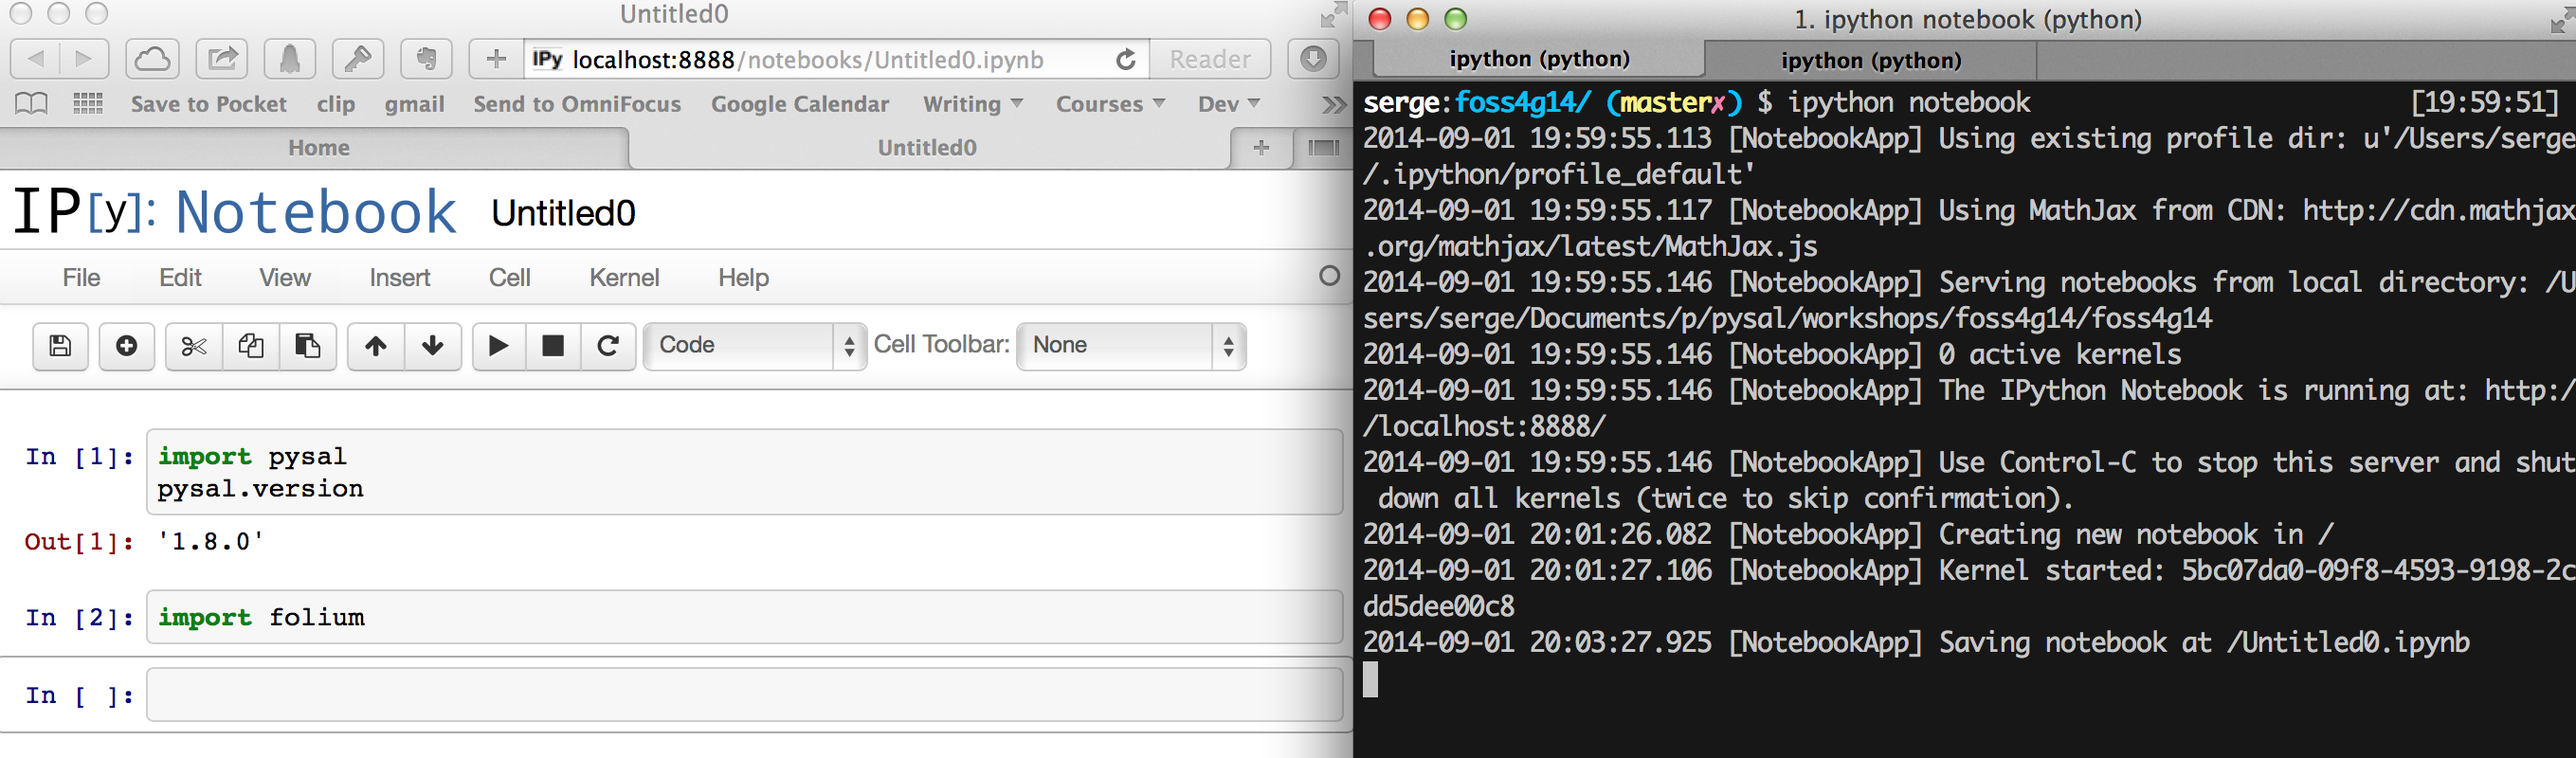
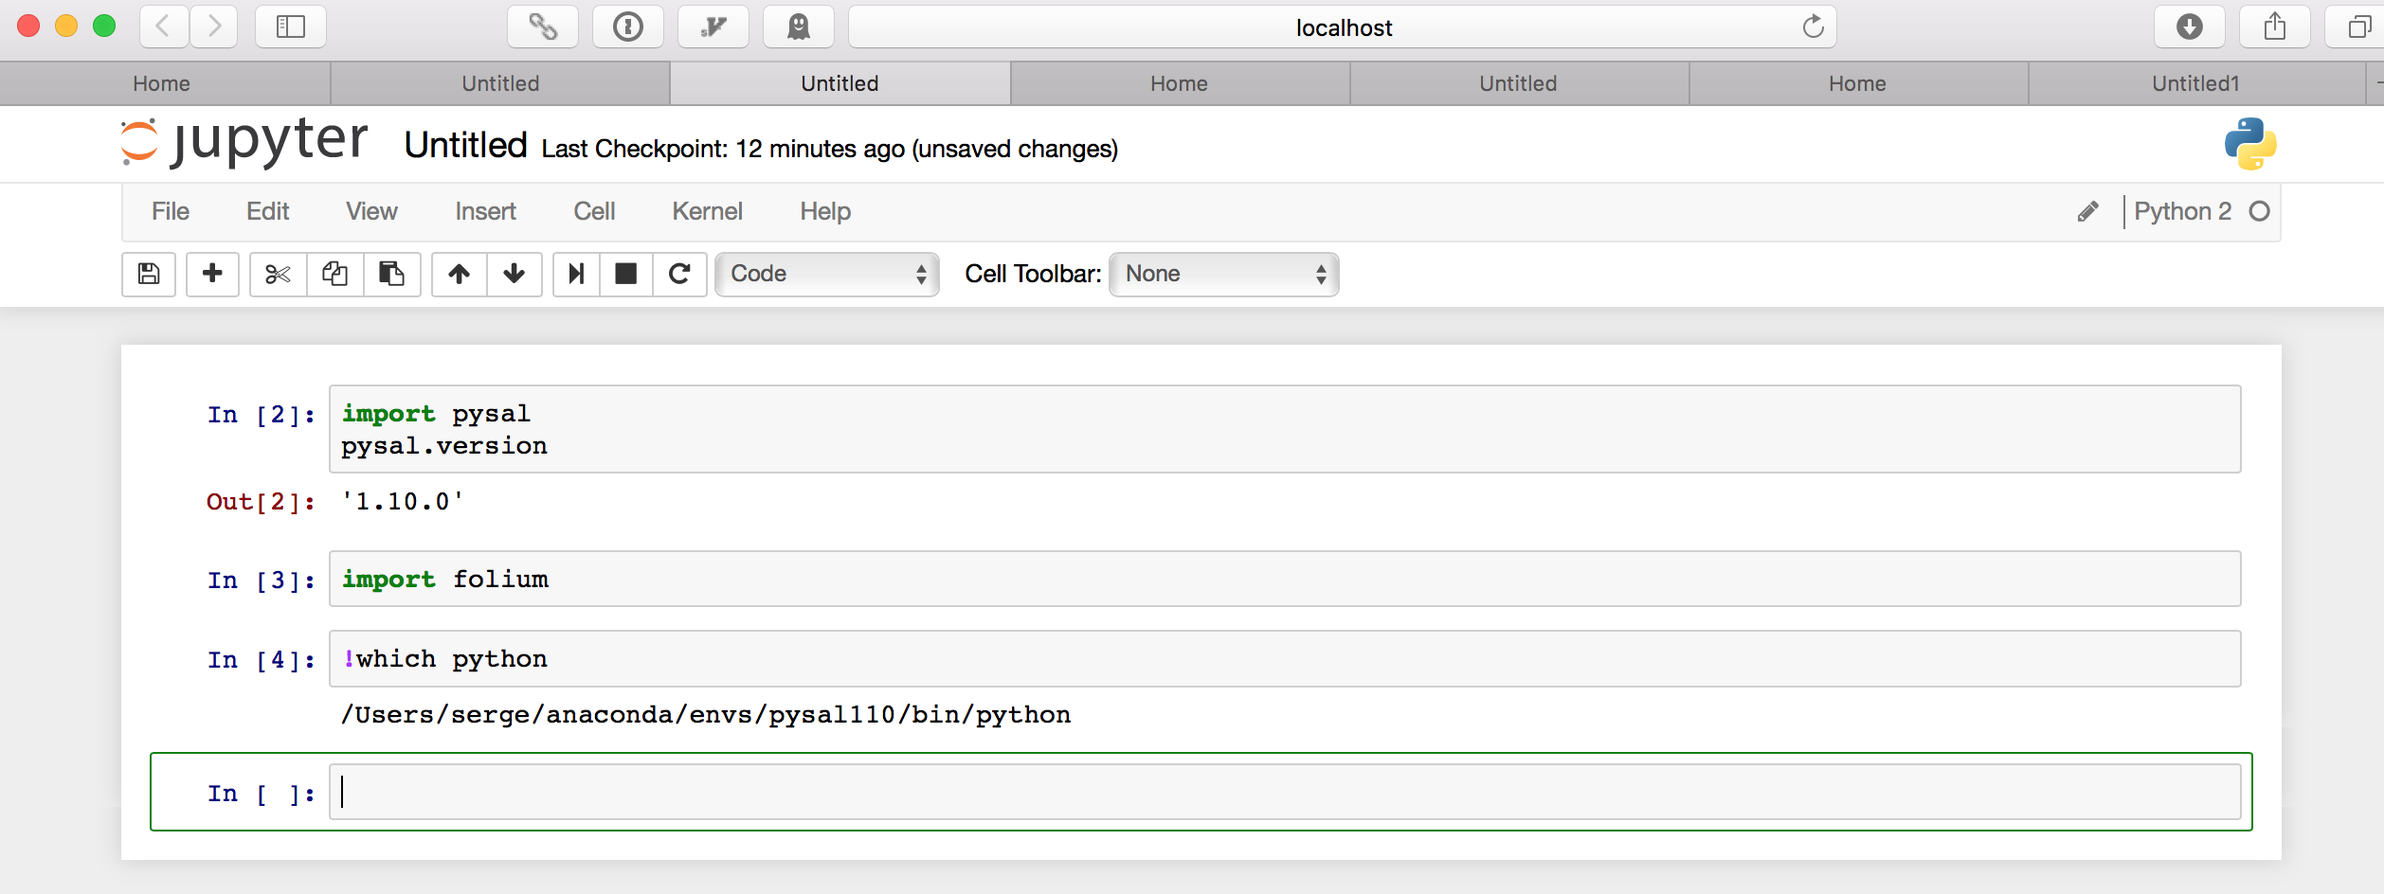
update installation instructions

diff --git a/README.md b/README.md
@@ -9,7 +9,7 @@
 
 ## Tutorial Description
 
-A unique feature of this tutorial is the use of Python based software tools for spatial data analysis. Python is an object oriented scripting language that is gaining rapid adoption in the scientific computing and data science communities. To facilitate its adoption within the GIScience community, Rey and Anselin have collaborated on the creation of [PySAL]: Python Library for Spatial Analysis. Since its initial release in July 2010, PySAL has been downloaded over 50,000 times and is now included in well- known open source scientific data analysis distributions, such as Anaconda. This two-part tutorial will introduce participants to the latest version of PySAL as well as to GeoDaSpace, a GUI application based on PySAL designed for spatial econometric analysis. The first component introduces the basic organization and philosophy of PySAL, with a special focus on exploratory spatial data analysis. In the second part of the tutorial the focus moves to practical spatial regression analysis using GeoDaSpace and the PySAL spreg module.
+A unique feature of this tutorial is the use of Python based software tools for spatial data analysis. Python is an object oriented scripting language that is gaining rapid adoption in the scientific computing and data science communities. To facilitate its adoption within the GIScience community, Rey and Anselin have collaborated on the creation of [PySAL]: Python Library for Spatial Analysis. Since its initial release in July 2010, PySAL has been downloaded over 75,000 times and is now included in well- known open source scientific data analysis distributions, such as Anaconda. This two-part tutorial will introduce participants to the latest version of PySAL as well as to GeoDaSpace, a GUI application based on PySAL designed for spatial econometric analysis. The first component introduces the basic organization and philosophy of PySAL, with a special focus on exploratory spatial data analysis. In the second part of the tutorial the focus moves to practical spatial regression analysis using GeoDaSpace and the PySAL spreg module.
 
 ## Prerequisites
 
@@ -24,7 +24,11 @@ For the workshop we will require the following packages be installed
 - PySAL 1.10.0
 - SciPy
 - Numpy
-- iPython Notebook 2.1+
+- iPython 
+- ipywidgets
+- jupyter
+- matplotlib
+- pandas
 - folium
 - [GeoDaSpace][GeoDaSpace]
 
@@ -32,12 +36,27 @@ There are a number of ways to install PySAL and these dependencies. For the work
 
 #### PySAL via Anaconda Python Distribution
 
-1. Install [Anaconda Python Distribution Version 1.8.0][Anaconda]
+1. Install [Anaconda Python Distribution][Anaconda]
 2. Open a terminal (Mac or Linux) or Powershell (Windows)
 2. `pip install -U pysal`
 3. `pip install -U folium`
 
+#### Creating a Custom Conda Environment
+
+If you already have Anaconda installed and you did not want to modify your default environemnt, you can create a *custom conda environment* for this session using the following commands:
+
+1. `conda create -n pysal110 scipy matplotlib jupyter ipython pandas ipywidgets`
+2. `source activate pysal110`
+4. `pip install -U pysal`
+5. `pip install -U folium`
+
+When you are done working in this environment, you can get back to your default environment with:
+
+ `source deactivate`
+
+
 #### PySAL via Enthought Canopy
+
 Note that the Academic version of Canopy comes with PySAL version 1.7. For this workshop we will be using PySAL 1.10. Upgrading in Canopy can be done as follows:
 
 1. Install [Canopy][Canopy]
@@ -59,13 +78,13 @@ For Anaconda:
 3. In the browser click `New Notebook`
 3. In the first cell in the notebook enter  
    `import pysal`
-
    `pysal.version`
-   
    Then `<Shift-Enter>` (i.e., hit the Shift then the Enter Key)
 4. In the second cell in the notebook enter  
    `import folium`
-
+   Then `<Shift-Enter>`
+5. In the third cell enter
+   `!which python`
    Then `<Shift-Enter>`
  
 Your screen should look something like:
@@ -80,13 +99,13 @@ For Enthought Canopy:
 3. In the browser click `New Notebook`
 3. In the first cell in the notebook enter  
    `import pysal`
-
    `pysal.version`
-   
    Then `<Shift-Enter>` (i.e., hit the Shift then the Enter Key)
 4. In the second cell in the notebook enter  
    `import folium`
-
+   Then `<Shift-Enter>`
+5. In the third cell enter
+   `!which python`
    Then `<Shift-Enter>`
  
 
